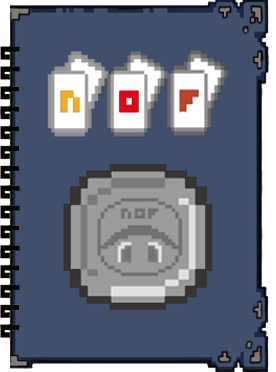
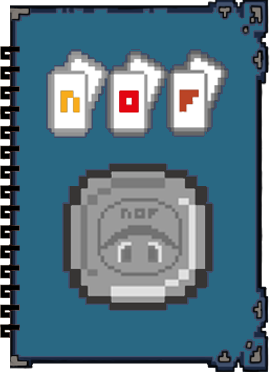
[style] :lipstick: update gamma background color in mobile

diff --git a/src/styles/_hero.scss b/src/styles/_hero.scss
@@ -486,9 +486,9 @@ $groundHeight: 40px;
 
     &__album__gamma {
       @extend .hero__top__album;
-      background-image: url('/images/gamma/GammaFondo.png') !important;
+      background-image: url('/images/gamma/GammaFondo.png')!important;
       @include mobile {
-        background-image: url('/images/gamma/GammaFondo-libreta.png');
+        background-image: url('/images/gamma/GammaFondo-libreta.png')!important;
       }
     }
   }
